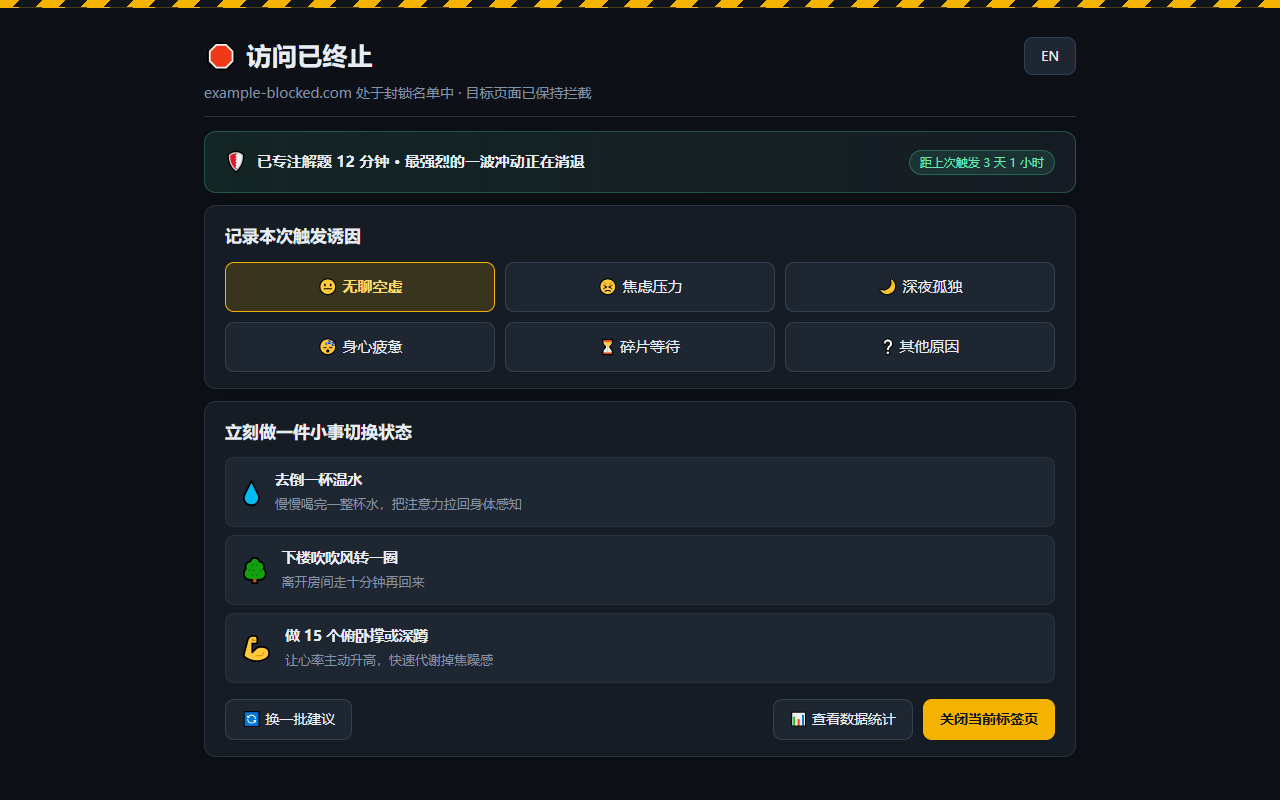
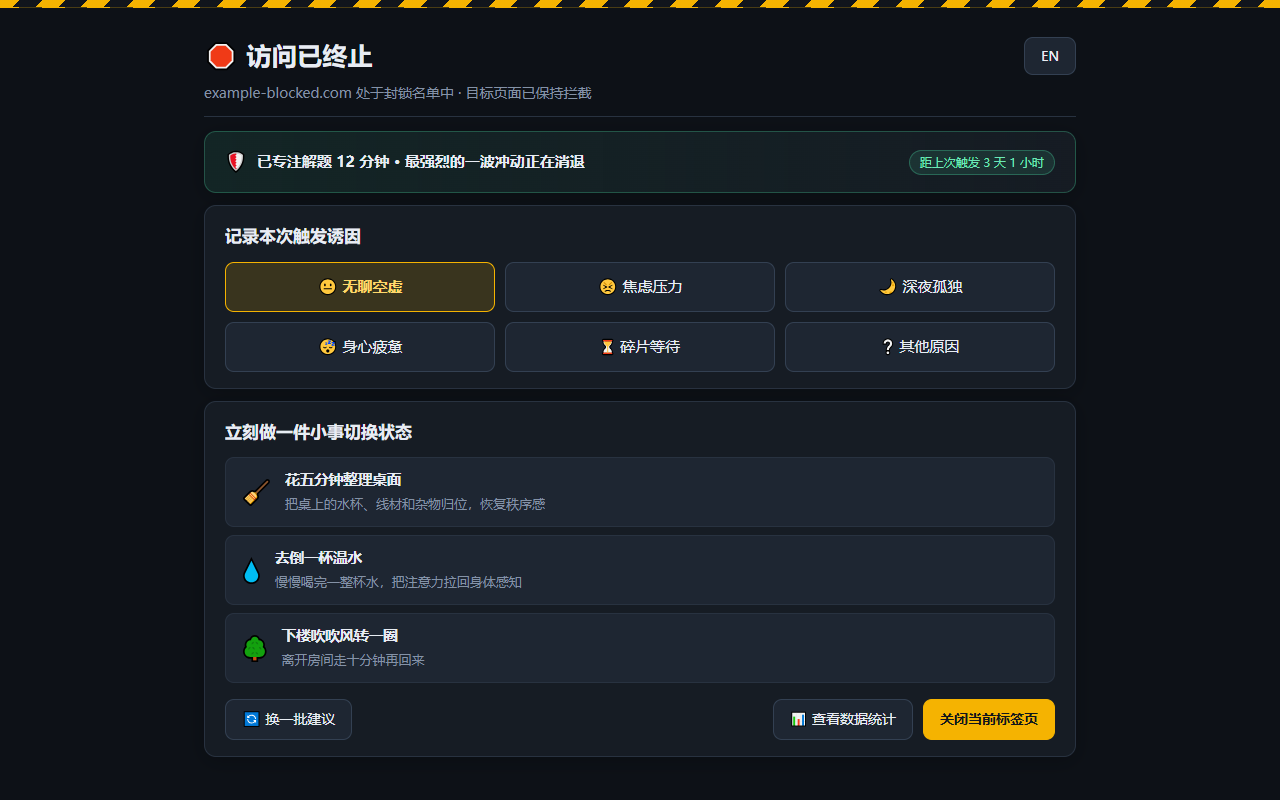
docs: add marquee promo tile and English store screenshots

Changed region(s): [[0.1875, 0.7812, 0.4062, 0.8438], [0.1875, 0.5938, 0.4375, 0.6562], [0.1875, 0.6875, 0.4062, 0.75]]

diff --git a/src/pages/options.css b/src/pages/options.css
@@ -8,6 +8,11 @@
   margin-bottom: 18px;
 }
 
+.page-hd > .row {
+  flex-shrink: 0;
+  flex-wrap: nowrap;
+}
+
 .sub-desc {
   margin: 6px 0 0;
   font-size: 13.5px;

diff --git a/store-assets/README.md b/store-assets/README.md
@@ -1,15 +1,18 @@
-# Chrome 网上应用店宣传图
+# Chrome 网上应用店宣传图 (v0.6.3)
 
-这些图片只用于 Chrome Web Store 商品详情，不打进扩展安装包。`npm run build` 只打包 `manifest.json` 与 `src/`，不会包含本目录。上传商店用 `dist/jav-speed-bump-store.zip`。画面对应 0.4.0 的界面。
+这些图片只用于 Chrome Web Store 商品详情，不打进扩展安装包。`npm run build` 只打包 `manifest.json`、`_locales/` 与 `src/`，不会包含本目录。上传商店请使用 `dist/jav-speed-bump-store.zip`。
 
-截图里出现的网站都是占位域名（例如 `example-blocked.com`、`example-videos.net`、`example-gallery.org`、`example-forum.io`），不是真实站点。
+截图里出现的网站均为占位域名（例如 `example-blocked.com`、`example-videos.net`、`example-gallery.org`、`example-forum.io`），不是真实站点。
 
 | 文件 | 尺寸 | 填入的商店字段 |
 | --- | --- | --- |
-| `screenshot-1-puzzle.png` | 1280×800 | Screenshots（截图）：解题页 |
-| `screenshot-2-blocked.png` | 1280×800 | Screenshots（截图）：屏蔽页 |
-| `screenshot-3-stats.png` | 1280×800 | Screenshots（截图）：统计页 |
-| `screenshot-4-options.png` | 1280×800 | Screenshots（截图）：设置页 |
+| `screenshot-1-puzzle.png` | 1280×800 | 中文详情页 Screenshots（截图 1）：解题页 |
+| `screenshot-2-blocked.png` | 1280×800 | 中文详情页 Screenshots（截图 2）：屏蔽页 |
+| `screenshot-3-stats.png` | 1280×800 | 中文详情页 Screenshots（截图 3）：统计页 |
+| `screenshot-4-options.png` | 1280×800 | 中文详情页 Screenshots（截图 4）：设置页 |
+| `screenshot-en-1-puzzle.png` | 1280×800 | 全球/英文 Screenshots（截图 1）：解题页 |
+| `screenshot-en-2-blocked.png` | 1280×800 | 全球/英文 Screenshots（截图 2）：屏蔽页 |
+| `screenshot-en-3-stats.png` | 1280×800 | 全球/英文 Screenshots（截图 3）：统计页 |
+| `screenshot-en-4-options.png` | 1280×800 | 全球/英文 Screenshots（截图 4）：设置页 |
 | `promo-small-440x280.png` | 440×280 | Small promo tile（小型宣传图块） |
-
-四张截图按文件名顺序上传到同一组 Screenshots。
+| `promo-marquee-1400x560.png` | 1400×560 | Marquee promo tile（顶部宣传图块） |

diff --git a/README.en.md b/README.en.md
@@ -18,7 +18,7 @@
 
 To get through, you need to spend about 10 minutes solving three randomly generated math and logic puzzles in a row (6×6 Sudoku, Nonogram, Make 24, and Mental Math). This focused cognitive workout wakes up your dormant prefrontal cortex and helps you ride out the 15-minute physiological urge wave.
 
-![Puzzle Gate UI](store-assets/screenshot-1-puzzle.png)
+![Puzzle Gate UI](store-assets/screenshot-en-1-puzzle.png)
 
 ---
 
@@ -96,9 +96,9 @@ An independent module built specifically for users quitting adult games on Steam
 
 | Puzzle Gate (Sudoku / Nonogram / Make 24 / Mental Math + Urge Curve) | Endpoint Page (Trigger Attribution + State-Switch Ideas) |
 | :---: | :---: |
-| ![Puzzle Gate](store-assets/screenshot-1-puzzle.png) | ![Blocked Page](store-assets/screenshot-2-blocked.png) |
+| ![Puzzle Gate](store-assets/screenshot-en-1-puzzle.png) | ![Blocked Page](store-assets/screenshot-en-2-blocked.png) |
 | **Statistics & Peak Urge Hour Review** | **Settings (Tiered Steam Protection + Embedded Lock Tool)** |
-| ![Statistics](store-assets/screenshot-3-stats.png) | ![Settings](store-assets/screenshot-4-options.png) |
+| ![Statistics](store-assets/screenshot-en-3-stats.png) | ![Settings](store-assets/screenshot-en-4-options.png) |
 
 ---
 
